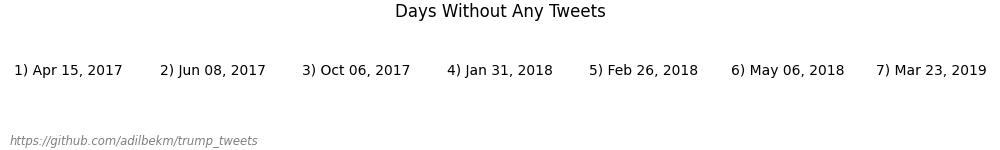
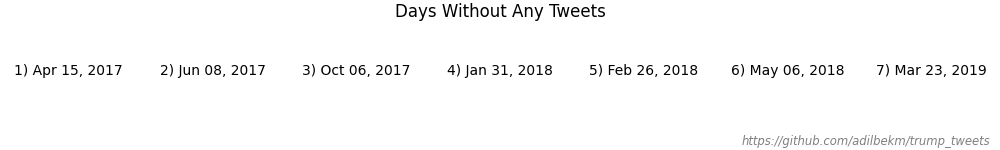
heatmap of daily tweets

Changed region(s): [[0.0, 0.9067, 0.279, 0.9867], [0.744, 0.9067, 0.992, 0.9867]]

diff --git a/scripts/make_charts.py b/scripts/make_charts.py
@@ -80,7 +80,6 @@ wdays2020 = cnt_wdays(datetime.date(2020, 1, 1), dataset_end)
 wdays_year = [wdays2017, wdays2018, wdays2019, wdays2020]
 
 
-
 # --------------------------------------------------------------------------- 
 # Number of tweets by year
 
@@ -127,7 +126,7 @@ ax.set_yticklabels(yticks)
 ax.spines['top'].set_visible(False)
 ax.spines['right'].set_visible(False)
 
-fig.text(0.01, 0.01, fineprint, fontsize='small', fontstyle='italic', alpha=0.5)
+fig.text(0.99, 0.01, fineprint, ha='right', fontsize='small', fontstyle='italic', alpha=0.5)
 
 fig.savefig(f_name)
 plt.close() # closes current figure (not required but keeps the memory clean)
@@ -180,7 +179,7 @@ ax.spines['right'].set_visible(False)
 
 ax.legend(frameon=False)
 
-fig.text(0.01, 0.01, fineprint, fontsize='small', fontstyle='italic', alpha=0.5)
+fig.text(0.99, 0.01, fineprint, ha='right', fontsize='small', fontstyle='italic', alpha=0.5)
 
 fig.savefig(f_name)
 plt.close() # closes current figure (not required but keeps the memory clean)
@@ -265,7 +264,7 @@ ax.spines['right'].set_visible(False)
 
 ax.legend(frameon=False, loc=2, bbox_to_anchor=(0, 1.02))
 
-fig.text(0.01, 0.01, fineprint, fontsize='small', fontstyle='italic', alpha=0.5)
+fig.text(0.99, 0.01, fineprint, ha='right', fontsize='small', fontstyle='italic', alpha=0.5)
 
 fig.savefig(f_name)
 plt.close() # closes current figure (not required but keeps the memory clean)
@@ -352,7 +351,7 @@ ax.spines['right'].set_visible(False)
 
 ax.legend(frameon=False)
 
-fig.text(0.01, 0.01, fineprint, fontsize='small', fontstyle='italic', alpha=0.5)
+fig.text(0.99, 0.01, fineprint, ha='right', fontsize='small', fontstyle='italic', alpha=0.5)
 
 fig.savefig(f_name)
 plt.close() # closes current figure (not required but keeps the memory clean)
@@ -445,7 +444,7 @@ ax.spines['right'].set_visible(False)
 
 ax.legend()
 
-fig.text(0.01, 0.01, fineprint, fontsize='small', fontstyle='italic', alpha=0.5)
+fig.text(0.99, 0.01, fineprint, ha='right', fontsize='small', fontstyle='italic', alpha=0.5)
 
 fig.savefig(f_name)
 plt.close() # closes current figure (not required but keeps the memory clean)
@@ -534,7 +533,7 @@ ax2.spines['top'].set_visible(False)
 ax.legend(frameon=False, bbox_to_anchor=(0, 0.95), loc=2)
 ax2.legend(frameon=False)
 
-fig.text(0.01, 0.01, fineprint, fontsize='small', fontstyle='italic', alpha=0.5)
+fig.text(0.99, 0.01, fineprint, ha='right', fontsize='small', fontstyle='italic', alpha=0.5)
 
 fig.savefig(f_name)
 plt.close() # closes current figure (not required but keeps the memory clean)
@@ -594,7 +593,7 @@ for i, ax in enumerate(axs):
     ax.spines['right'].set_visible(False)
     ax.grid(axis='y', which='major', linestyle='--')
 
-fig.text(0.01, 0.01, fineprint, fontsize='small', fontstyle='italic', alpha=0.5)
+fig.text(0.99, 0.01, fineprint, ha='right', fontsize='small', fontstyle='italic', alpha=0.5)
 
 fig.savefig(f_name)
 plt.close() # closes current figure (not required but keeps the memory clean)
@@ -663,7 +662,7 @@ for i, ax in enumerate(axs):
 
 ax2017.legend(frameon=False, loc=2, bbox_to_anchor=(0, 1.02))
 
-fig.text(0.01, 0.01, fineprint, fontsize='small', fontstyle='italic', alpha=0.5)
+fig.text(0.99, 0.01, fineprint, ha='right', fontsize='small', fontstyle='italic', alpha=0.5)
 
 fig.savefig(f_name)
 plt.close() # closes current figure (not required but keeps the memory clean)
@@ -719,7 +718,7 @@ for i, ax in enumerate(axs):
     ax.spines['right'].set_visible(False)
     ax.grid(axis='y', which='major', linestyle='--')
 
-fig.text(0.01, 0.01, fineprint, fontsize='small', fontstyle='italic', alpha=0.5)
+fig.text(0.99, 0.01, fineprint, ha='right', fontsize='small', fontstyle='italic', alpha=0.5)
 
 fig.savefig(f_name)
 plt.close()
@@ -786,7 +785,7 @@ for i, ax in enumerate(axs):
 #ax2017.legend(frameon=False, loc=2, bbox_to_anchor=(0, 0.95))
 ax2017.legend(loc=2)
 
-fig.text(0.01, 0.01, fineprint, fontsize='small', fontstyle='italic', alpha=0.5)
+fig.text(0.99, 0.01, fineprint, ha='right', fontsize='small', fontstyle='italic', alpha=0.5)
 
 fig.savefig(f_name)
 plt.close()
@@ -883,7 +882,7 @@ ax2.spines['right'].set_visible(False)
 
 fig.legend()
 
-fig.text(0.01, 0.01, fineprint, fontsize='small', fontstyle='italic', alpha=0.5)
+fig.text(0.99, 0.01, fineprint, ha='right', fontsize='small', fontstyle='italic', alpha=0.5)
 
 fig.savefig(f_name)
 plt.close() # close current figure - not required but keeps the memory clean
@@ -911,7 +910,7 @@ for i, z in enumerate(zeros):
     x += xoffset
     fig.text(x, 0.5, s, ha='center')
 
-fig.text(0.01, 0.03, fineprint, fontsize='small', fontstyle='italic', alpha=0.5)
+fig.text(0.99, 0.03, fineprint, ha='right', fontsize='small', fontstyle='italic', alpha=0.5)
 
 fig.savefig(f_name)
 plt.close() # close current figure - not required but keeps the memory clean
@@ -919,4 +918,110 @@ plt.close() # close current figure - not required but keeps the memory clean
 print('saved plot {}'.format(f_name))
 
 
+# ---------------------------------------------------------------------------
+# Heatmap of daily tweets
+
+f_name = 'plt_13.png'
+
+fig = plt.figure(
+        figsize=(15, 10), 
+        tight_layout={'rect': (0, 0.02, 1, 1), 'h_pad': 0.7})
+ax1 = plt.subplot(4, 1, 1)
+ax2 = plt.subplot(4, 1, 2)
+ax3 = plt.subplot(4, 1, 3)
+ax4 = plt.subplot(4, 1, 4)
+axs = [ax1, ax2, ax3, ax4]
+
+title = main_title + ': Daily Count'
+fig.suptitle(title, fontsize='x-large')
+
+# number of weeks in 2017-2020: 52 + 52 + 52 + 53 = 209
+# but will use 52 for all for years so that graphs align
+# so go with np.array of shape (208, 7)
+# i will use iso calendar, so week begins with monday
+
+weeks = 208
+days = 7
+t = np.zeros((weeks, days))
+# start on 2017-01-02 because 2017-01-01 is week 52 of 2016
+c = dataset_start + datetime.timedelta(days=1)
+
+for wk in range(weeks):
+    for wd in range(days):
+        y = c.year
+        m = c.month
+        d = c.day
+        tc = len(df[(df.created_yy == y) & (df.created_mm == m) & (df.created_dd == d)])
+        t[wk][wd] = tc
+        c += datetime.timedelta(days=1)
+
+# max value to use in colormap
+tmean = t.mean()
+tstd = t.std()
+tmax = int(tmean + (2 * tstd)) # 2 stds from mean
+
+# split the array by years:
+t1 = t[0:52]
+t2 = t[52:104]
+t3 = t[104:156]
+t4 = t[156:]
+
+# trasponse (for imshow)
+t1 = np.transpose(t1)
+t2 = np.transpose(t2)
+t3 = np.transpose(t3)
+t4 = np.transpose(t4)
+
+ts = [t1, t2, t3, t4]
+
+for i, ax in enumerate(axs):
+    ax.imshow(ts[i], cmap='Reds', vmax=tmax)
+    ax.set_yticks(np.arange(7))
+    ax.set_yticklabels(['Mo', 'Tu', 'We', 'Th', 'Fr', 'Sa', 'Su'])
+    ax.set_ylabel(yrs[i], fontsize='large')
+    ax.set_xticks([0, 9, 19, 29, 39, 49])
+    ax.set_xticklabels([1, 10, 20, 30, 40, 50])
+    ax.tick_params(
+            axis='x', 
+            top=True, 
+            bottom=False, 
+            labeltop=True, 
+            labelbottom=False)
+
+# show tweet counts
+for i, ax in enumerate(axs):
+    for n in range(7):
+        for m in range(52):
+            cnt = str(int(ts[i][n][m]))
+            ax.text(m, n, cnt, ha='center', va='center', fontsize='small', color='w', alpha=0.8)
+
+fig.text(0.99, 0.01, fineprint, ha='right', fontsize='small', fontstyle='italic', alpha=0.5)
+
+fig.savefig(f_name)
+plt.close()
+
+print('saved plot {}'.format(f_name))
+
+
+# --------------------------------------------------------------------------- 
+# Banner image, based on previous plot's data for 2019 (t3)
+
+f_name = 'plt_14.png'
+
+fig = plt.figure(figsize=(35, 5), tight_layout=True)
+ax = plt.subplot()
+
+ax.imshow(t3, cmap='Reds', vmax=tmax)
+ax.set_axis_off()
+
+# show tweet counts
+for n in range(7):
+    for m in range(52):
+        cnt = str(int(t3[n][m]))
+        ax.text(m, n, cnt, ha='center', va='center', fontsize='large', color='w', alpha=0.8)
+
+fig.savefig(f_name)
+plt.close()
+
+print('saved plot {}'.format(f_name))
 

diff --git a/README.md b/README.md
@@ -1,8 +1,8 @@
 # All the President's Tweets #
 
-#### All Tweets Sent by 45th President of the United States Donald Trump (2017-2020) #### 
+President Trump has sent 23,787 tweets since taking office in 2017. I downloaded all them from Twitter to analyze his tweeting patterns, and here is what I found in a few graphs. 
 
-President Trump has sent a total of 23,384 tweets between January 1, 2017 and November 7, 2020 at noon. 
+Donald Trump had been a prolific tweeter even before he was President, sending out thousands of tweets per year. When he was elected, there was an expectation that he would somewhat mold into the job and become at least a little like all the other presidents that came before him, and this meant tweeting less. But today with nearly all of his presidency behind him, that expectation turned out to be short-lived. 
 
 ![Tweets by year][plt1]
 
@@ -28,6 +28,8 @@ President Trump has sent a total of 23,384 tweets between January 1, 2017 and No
 
 ![Days without any tweets][plt12]
 
+![All tweets day by day][plt13]
+
 You can view any of the tweets from this this dataset at Twitter.com by replacing the ending of the link shown below with the id of the tweet you are interested in, and opening the link in your browser:
 
 https://twitter.com/realDonaldTrump/status/tweet-id-here
@@ -48,4 +50,5 @@ Last updated: November 20, 2020
 [plt10]: images/plt_10.png
 [plt11]: images/plt_11.png
 [plt12]: images/plt_12.png
+[plt13]: images/plt_13.png
 
